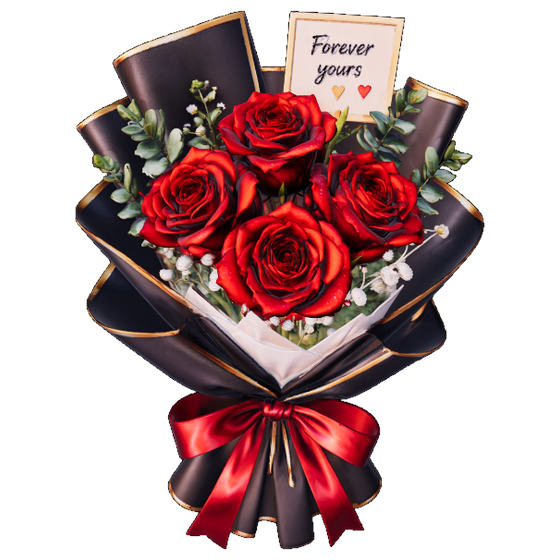
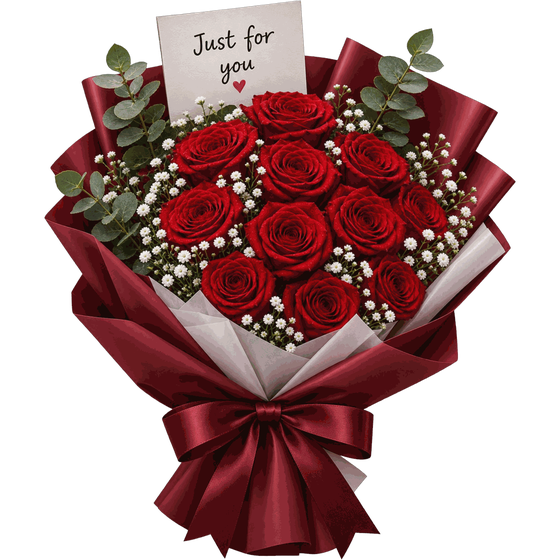
Flower: replace primary Rose Bouquet artwork with the new 9-rose bouquet PNG (baby's breath, satin bow, 'Just for you' card) — id unchanged so all saved moments auto-update

diff --git a/src/lib/md-blocks.ts b/src/lib/md-blocks.ts
@@ -53,7 +53,7 @@ export const FLOWERS = [
     image: "/models/bouquet.png",
     thumb: "/models/bouquet-thumb.png",
     accent: "#E0244A",
-    caption: "A wrapped bouquet of red roses — ribbon, gold trim and all. A gift that never fades.",
+    caption: "A hand-tied bouquet of nine red roses with baby's breath, eucalyptus and a satin bow — 'Just for you'. A gift that never fades.",
   },
   {
     id: "bouquet2",

diff --git a/scripts/replace_bouquet.py b/scripts/replace_bouquet.py
@@ -1,0 +1,52 @@
+#!/usr/bin/env python3
+"""
+Process the replacement rose bouquet (user-pushed "New Project 517 [A2CF96C].png")
+and REPLACE the primary bouquet asset (public/models/bouquet.png).
+
+The upload is a clean alpha cutout on a 2160x3840 canvas (content 2125x2664).
+Steps: kill sub-perceptual alpha noise, trim to alpha bbox, downscale to a
+web-friendly size (max 1200px content height — plenty for the ~330px stage at
+3x retina), optimize, and rebuild the square thumbnail.
+"""
+from PIL import Image
+import numpy as np
+import os
+
+SRC = "New Project 517 [A2CF96C].png"
+OUT = "public/models/bouquet.png"
+THUMB = "public/models/bouquet-thumb.png"
+
+img = Image.open(SRC).convert("RGBA")
+a = np.array(img)
+h, w = a.shape[:2]
+print(f"source: {w}x{h}")
+
+# Kill sub-perceptual alpha noise
+a[:, :, 3] = np.where(a[:, :, 3] < 8, 0, a[:, :, 3])
+
+# Trim to alpha bbox
+alpha = a[:, :, 3]
+ys, xs = np.where(alpha > 8)
+x0, x1 = xs.min(), xs.max()
+y0, y1 = ys.min(), ys.max()
+crop = Image.fromarray(a).crop((x0, y0, x1 + 1, y1 + 1))
+cw, ch = crop.size
+print(f"trimmed: {cw}x{ch}")
+
+# Downscale to max 1200px height (stage shows ~330px; 1200 = ~3.6x retina)
+MAX_H = 1200
+if ch > MAX_H:
+    nw = round(cw * MAX_H / ch)
+    crop = crop.resize((nw, MAX_H), Image.LANCZOS)
+    print(f"downscaled: {nw}x{MAX_H}")
+
+crop.save(OUT, optimize=True)
+print(f"saved {OUT}: {os.path.getsize(OUT)//1024} KB")
+
+# square transparent thumb, content-centered
+cw, ch = crop.size
+side = max(cw, ch)
+sq = Image.new("RGBA", (side, side), (0, 0, 0, 0))
+sq.paste(crop, ((side - cw) // 2, (side - ch) // 2), crop)
+sq.resize((560, 560), Image.LANCZOS).save(THUMB, optimize=True)
+print(f"saved {THUMB}: {os.path.getsize(THUMB)//1024} KB")

diff --git a/worklog.md b/worklog.md
@@ -1609,3 +1609,25 @@ Stage Summary:
 - Player lessons: the scene scroll container must be scrolled via JS AFTER tapping into the flower scene (scrolling the end screen scrolls the end screen); scenes stack multiple blocks vertically — two flower blocks in one scene = both visible, scrollable.
 - SECURITY (carried): GitHub PAT was posted in chat during earlier rounds — rotate at github.com/settings/tokens after sandbox work.
 - Next-phase queue: public /e/[slug] recipient page, per-scene soundtrack override, AI sketch→soundtrack, creator claims analytics dashboard, library search field, coupon relaunch (COUPON_REVEAL_ENABLED=false), mic-recording e2e (needs headed browser with fake media stream).
+
+---
+Task ID: 49
+Agent: Z.ai Code (main orchestrator)
+Task: User pushed a replacement rose bouquet PNG ("Replacement of the png rose bouqet", commit 7b90256) — replace the primary Rose Bouquet (the screenshot-cut 4-rose asset whose ribbon tails were cropped) with the new artwork.
+
+Work Log:
+- Pulled 7b90256: "New Project 517 [A2CF96C].png" (2160×3840 RGBA, clean alpha cutout, content 2117×2511).
+- VLM analysis: 9 red roses, baby's breath, eucalyptus, white+burgundy double wrap, burgundy satin bow, "Just for you" card — 9/10 e-commerce quality, no UI chrome, whole bouquet visible (unlike the old asset's cropped ribbon).
+- scripts/replace_bouquet.py: killed alpha noise (<8→0), trimmed to alpha bbox, downscaled 2511→1200px height (stage renders ~330px — 3.6x retina), rebuilt 560×560 thumb.
+- Size optimization: palette-quantized A/B (256 colors, 237KB, MSE 36) vs RGBA original (1449KB) — VLM verdict "USE QUANTIZED" (no visible banding). Final saved as straight RGBA for max compatibility: 669KB (half the raw size; bouquet2 stays 1.8MB).
+- Replaced public/models/bouquet.png + bouquet-thumb.png IN PLACE — the FLOWERS id stays "bouquet" so every saved moment auto-updates to the new artwork with no data migration.
+- md-blocks.ts: caption updated to "A hand-tied bouquet of nine red roses with baby's breath, eucalyptus and a satin bow — 'Just for you'…". Name "Rose Bouquet" and id unchanged.
+- Source file moved to upload/New_Project_517_A2CF96C.png for repo hygiene.
+- E2E via agent-browser: builder flower editor shows the NEW 9-rose "Just for you" bouquet cleanly on the plum stage, two-option Flower radiogroup intact (9/10). Player flower scene shows the new bouquet fully visible, seamless on the dark background, cream card + voice note below. Zero console/page errors; lint clean.
+
+Stage Summary:
+- The primary "Rose Bouquet" block now uses the new 9-rose artwork everywhere (editor stage, player, block cards, library tile, starter palette default) — one file swap, zero migration, all existing moments updated automatically. The old 4-rose screenshot-cut asset remains recoverable from git history (commit f34d7c2).
+- Asset pipeline lessons: P-mode palette PNGs (tRNS) break PIL paste — convert('RGBA') before compositing; for web assets prefer straight-RGBA at ~1200px over palette tricks unless every byte counts; always A/B quantized vs original via VLM before shipping.
+- E2E note: draft-preview player VLM reads dock the score for surrounding app chrome (sidebar, dots, "Tap to continue") — that's the preview shell, not the recipient view; evaluate the bouquet itself.
+- SECURITY (carried): GitHub PAT was posted in chat during earlier rounds — rotate at github.com/settings/tokens after sandbox work.
+- Next-phase queue: public /e/[slug] recipient page, per-scene soundtrack override, AI sketch→soundtrack, creator claims analytics dashboard, library search field, coupon relaunch (COUPON_REVEAL_ENABLED=false), mic-recording e2e (needs headed browser with fake media stream).
